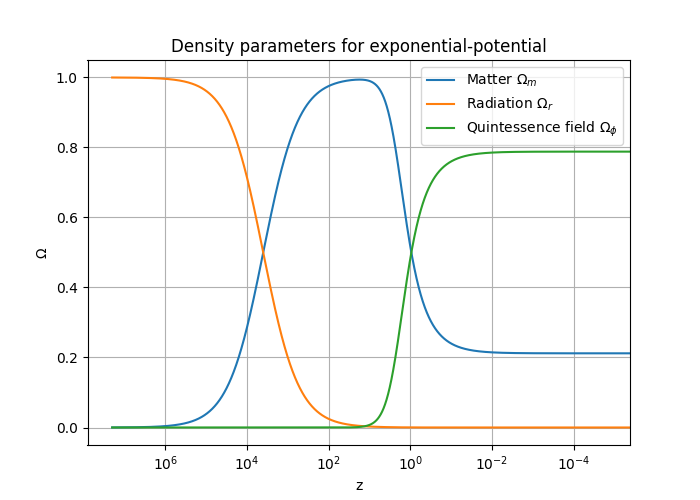
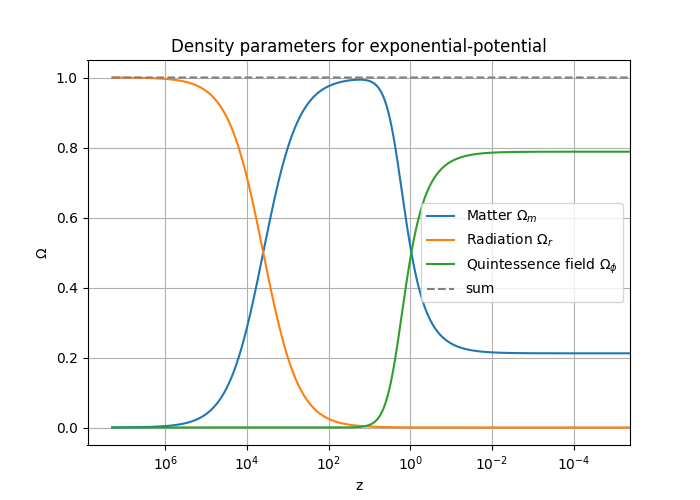
added plotting of sum of density parameters also ignored userwarning

diff --git a/Projects/Project 1/scripts/problem9.py b/Projects/Project 1/scripts/problem9.py
@@ -1,10 +1,12 @@
 import os
-from typing import Callable
+import warnings
 
 import numpy as np
 import matplotlib.pyplot as plt
 from scipy.integrate import solve_ivp
 
+# ignore pyplot legend loc=best user warning (cba)
+warnings.filterwarnings("ignore", category=UserWarning) 
 
 # Constants
 G = 6.6743e-11  # Newton gravitational constant [m^3/(kg s^2)]
@@ -184,6 +186,12 @@ def plot_density_parameters(
     plt.plot(z, Omega_m, label=r"Matter $\Omega_m$")
     plt.plot(z, Omega_r, label=r"Radiation $\Omega_r$")
     plt.plot(z, Omega_phi, label=r"Quintessence field $\Omega_{\phi}$")
+
+    # Plot sum of density parameters-line
+    plt.plot(
+        z, Omega_m + Omega_r + Omega_phi, label=r"sum", linestyle="--", color="gray"
+    )
+
     plt.legend()
     plt.gca().invert_xaxis()  # invert x-axis
 
